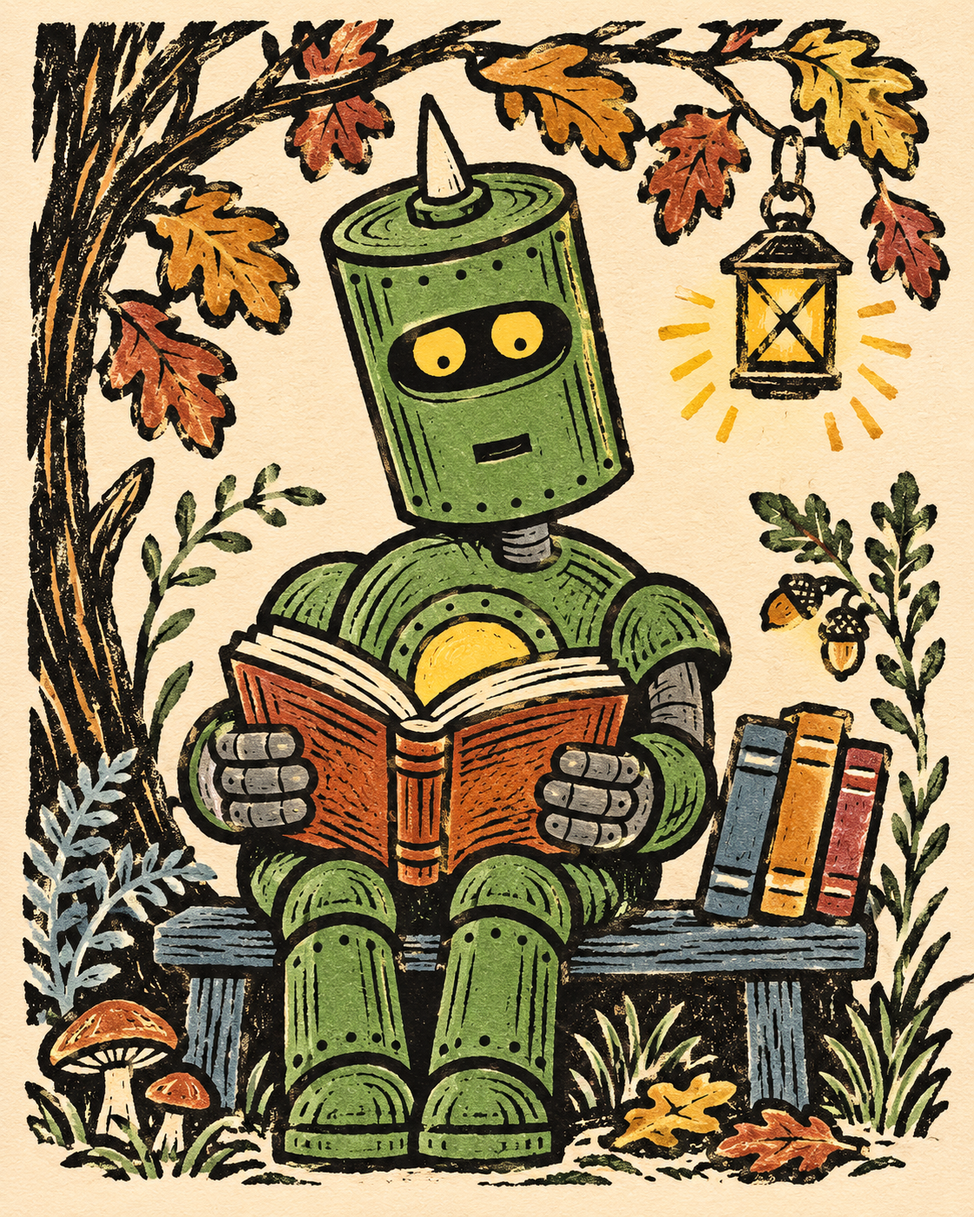
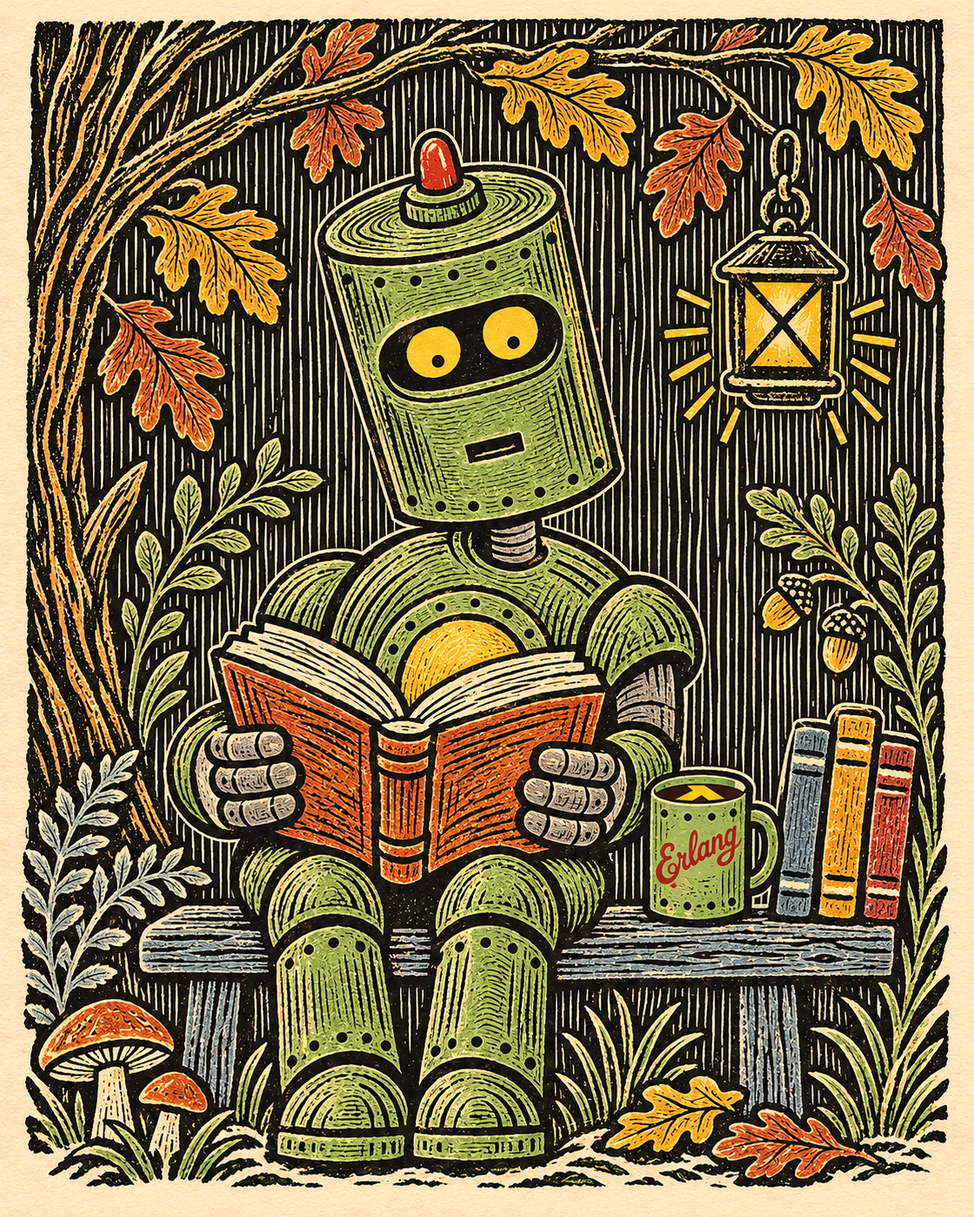
Refine LiffyBot linocut with LED and Erlang mug
Add vertical background cuts and finer carved detail to the approved artwork.

diff --git a/README.md b/README.md
@@ -14,7 +14,7 @@ native snapshots and renders a static HTML reference.
 
 <p align="center">
   <a href="priv/images/ldoc-liffybot.png">
-    <img src="priv/images/ldoc-liffybot.png" width="440" alt="LiffyBot reading beneath an autumn tree and lantern, rendered as a hand-coloured linocut.">
+    <img src="priv/images/ldoc-liffybot.png" width="440" alt="LiffyBot, red LED alight, reading beneath an autumn tree and lantern with an Erlang mug beside him, rendered as a hand-coloured linocut.">
   </a>
 </p>
 
